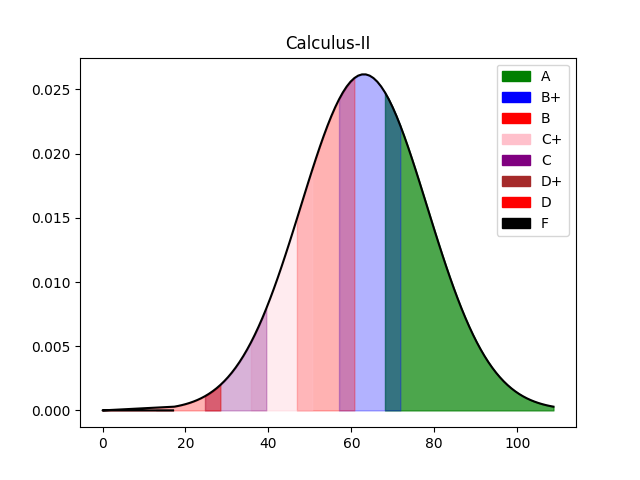
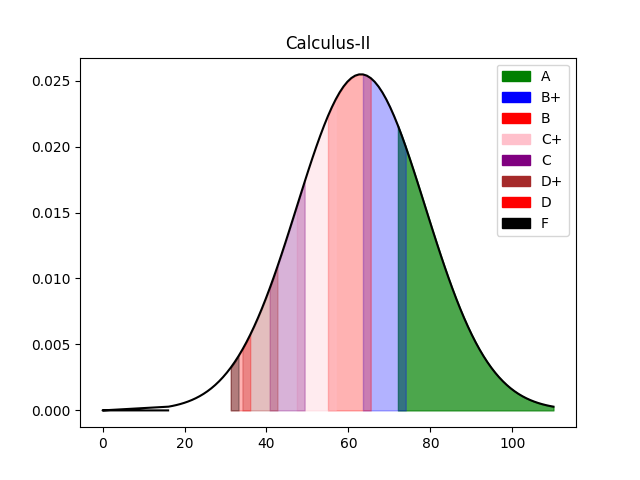
fully updated

diff --git a/GradeApp/templates/result.html b/GradeApp/templates/result.html
@@ -20,37 +20,43 @@ In case your Qalam Score has been updated, keep us notified by <a href="./forget
             <th style="width: 400px">Subject</th>
             <th style="width: 150px;">Aggregate</th>
             <th style="width: 150px;">Grade(Expected)</th>
+            <th style="width: 250px;">Jump Up Chance</th>
         </tr>
         <tr style="background-blend-mode: overlay;">
             <td style="text-align: left">Applied Physics</td>
             <td>{{ aggAP }}</td>
             <td>{{ grAP }}</td>
+            <td>{{ pAP }}</td>
         </tr>
             <tr>
             <td style="text-align: left">Calculus-II</td>
             <td>{{ aggCAL }}</td>
             <td>{{ grCAL }}</td>
+            <td>{{ pCAL }}</td>
         </tr>
             <tr>
             <td style="text-align: left">Digital Logic Design</td>
             <td>{{ aggDLD }}</td>
             <td>{{ grDLD }}</td>
+            <td>{{ pDLD }}</td>
         </tr>
             <tr>
             <td style="text-align: left">Object Oriented Programming</td>
             <td>{{ aggOOP }}</td>
             <td>{{ grOOP }}</td>
+            <td>{{ pOOP }}</td>
         </tr>
             <tr>
             <td style="text-align: left">Islamic Studies</td>
             <td>{{ aggISL }}</td>
             <td>{{ grISL }}</td>
-        </tr>
+            <td>{{ pISL }}</td>
         </tr>
         <tr>
             <td style="text-align: left">Introduction To Management</td>
             <td>{{ aggITM }}</td>
             <td>{{ grITM }}</td>
+            <td>{{ pITM }}</td>
         </tr>
 
         </tbody>

diff --git a/GradeApp/predictions.py b/GradeApp/predictions.py
@@ -24,31 +24,7 @@ def get_predict(input_data):
         l3_weights) + l3_bias
 
 
-def make_prediction(score, ch, data):
-    mean = data.mean()
-    SB = list(1 if score > x > mean else 0 for x in data).count(1) if score > mean else -list(
-        1 if score < x < mean else 0 for x in data).count(1)
-    SB /= len(data)
-    res = get_predict(np.array([[score, ch, mean, SB,
-                                 score ** 2, score * ch, score * mean, score * SB,
-                                 ch ** 2, ch * mean, ch * SB,
-                                 mean ** 2, mean * SB,
-                                 SB ** 2]]))[0]
-
-    grade = np.where(res == np.max(res))[0][0]
-    return grade_map[str(grade)]
-
-
-def decide_boundary(ch, label, i_name, data):
-    plt.clf()
-    plt.cla()
-    if not data.size:
-        return
-    mean = data.mean()
-    std_deviation = sqrt(data.var())
-    score = 89
-    if label == "Intro To Management":
-        score = 95
+def get_boundary(score, ch, mean, data):
     prev_grade = 0
     cur_grade = 0
     boundaries = []
@@ -61,18 +37,10 @@ def decide_boundary(ch, label, i_name, data):
             res = get_predict(np.array([[score, ch, mean, SB, score ** 2, score * ch, score * mean, score * SB,
                                          ch ** 2, ch * mean, ch * SB, mean ** 2, mean * SB, SB ** 2]]))[0]
             cur_grade = np.where(res == np.max(res))[0][0]  # gives index for grade
-            score -= 10
-        score += 8
+            score -= 1
+        score += 0.9
         cur_grade = prev_grade
-        while prev_grade < cur_grade:
-            SB = list(1 if score > x > mean else 0 for x in data).count(1) if score > mean else -list(
-                1 if score < x < mean else 0 for x in data).count(1)
-            SB /= len(data)
-            res = get_predict(np.array([[score, ch, mean, SB, score ** 2, score * ch, score * mean, score * SB,
-                                         ch ** 2, ch * mean, ch * SB, mean ** 2, mean * SB, SB ** 2]]))[0]
-            cur_grade = np.where(res == np.max(res))[0][0]  # gives index for grade
-            score -= 2
-        score += 1.5
+
         while not prev_grade < cur_grade:
             SB = list(1 if score > x > mean else 0 for x in data).count(1) if score > mean else -list(
                 1 if score < x < mean else 0 for x in data).count(1)
@@ -80,8 +48,9 @@ def decide_boundary(ch, label, i_name, data):
             res = get_predict(np.array([[score, ch, mean, SB, score ** 2, score * ch, score * mean, score * SB,
                                          ch ** 2, ch * mean, ch * SB, mean ** 2, mean * SB, SB ** 2]]))[0]
             cur_grade = np.where(res == np.max(res))[0][0]  # gives index for grade
-            score -= 0.5
-        boundaries.insert(0, score)
+            score -= 0.1
+        boundaries.insert(0, score + 0.1)
+
         prev_grade = cur_grade
         if cur_grade == 7:
             boundaries.insert(0, score)
@@ -89,6 +58,42 @@ def decide_boundary(ch, label, i_name, data):
 
     for i in range(8 - len(boundaries)):
         boundaries.insert(0, 0)
+
+    return boundaries
+
+
+def make_prediction(score, ch, data):
+    mean = data.mean()
+    SB = list(1 if score > x > mean else 0 for x in data).count(1) if score > mean else -list(
+        1 if score < x < mean else 0 for x in data).count(1)
+    SB /= len(data)
+    res = get_predict(np.array([[score, ch, mean, SB,
+                                 score ** 2, score * ch, score * mean, score * SB,
+                                 ch ** 2, ch * mean, ch * SB,
+                                 mean ** 2, mean * SB,
+                                 SB ** 2]]))[0]
+
+    grade = np.where(res == np.max(res))[0][0]
+
+    # Special Chk for Management Tentative
+    start = 95 if mean > 90 else 89
+
+    boundaries = get_boundary(start, ch, mean, data)
+    return (grade_map[str(grade)],
+            (str(round(1 - stats.norm.cdf((boundaries[8 - grade] - score) / sqrt(data.var())),
+                       4) * 100) if grade else "0") + "%")
+
+
+def decide_boundary(ch, label, i_name, data):
+    plt.clf()
+    plt.cla()
+    if not data.size:
+        return
+    mean = data.mean()
+    std_deviation = sqrt(data.var())
+    score = 95 if label == "Intro To Management" else 89
+
+    boundaries = get_boundary(score, ch, mean, data)
     # Plot the new curve and save it
     x = np.linspace(mean - 3 * std_deviation, mean + 3 * std_deviation, 100)
     # if std_deviation:
@@ -104,9 +109,7 @@ def decide_boundary(ch, label, i_name, data):
         y.insert(-1, 0)
     x = np.array(x)
     y = np.array(y)
-    # else:
-    #     y = [0] * 400
-    #     y[int(round(mean, 0) * 4)] = 1
+
     plt.plot(x, y, label=label, color="black")
     plt.rcParams["figure.figsize"] = (10, 1)
     # filling colors Start from
@@ -119,31 +122,31 @@ def decide_boundary(ch, label, i_name, data):
         return
     plt.fill_between(x[start:], 0, y[start:], color='green', alpha=0.7)
 
-    end = start + 5
+    end = start + 3
     start = np.where(x > boundaries[-2])[0][0]
     plt.fill_between(x[start:end], 0, y[start:end], color='blue', alpha=0.3)
 
-    end = start + 5
+    end = start + 3
     start = np.where(x > boundaries[-3])[0][0]
     plt.fill_between(x[start:end], 0, y[start:end], color='red', alpha=0.3)
 
-    end = start + 5
+    end = start + 3
     start = np.where(x > boundaries[-4])[0][0]
     plt.fill_between(x[start:end], 0, y[start:end], color='pink', alpha=0.3)
 
-    end = start + 5
+    end = start + 3
     start = np.where(x > boundaries[-5])[0][0]
     plt.fill_between(x[start:end], 0, y[start:end], color='purple', alpha=0.3)
 
-    end = start + 5
+    end = start + 3
     start = np.where(x > boundaries[-6])[0][0]
     plt.fill_between(x[start:end], 0, y[start:end], color='brown', alpha=0.3)
 
-    end = start + 5
+    end = start + 3
     start = np.where(x > boundaries[-7])[0][0]
     plt.fill_between(x[start:end], 0, y[start:end], color='red', alpha=0.3)
 
-    end = start + 5
+    end = start + 3
     start = np.where(x > boundaries[-8])[0][0]
     plt.fill_between(x[start:end], 0, y[start:end], color='black', alpha=0.3)
 
@@ -161,3 +164,8 @@ def decide_boundary(ch, label, i_name, data):
     if os.path.exists("./static/GradeApp/img/" + i_name):
         os.remove("./static/GradeApp/img/" + i_name)
     plt.savefig("./static/GradeApp/img/" + i_name)
+
+# from GradeApp import models
+# d = np.array([*models.GradesA.objects.values_list("oop"),
+#                                  *models.GradesB.objects.values_list("oop")])
+# decide_boundary(4, "test", "tt.png", d)

diff --git a/GradeApp/views.py b/GradeApp/views.py
@@ -174,7 +174,6 @@ def add_new_record(input_data):
     predictions.decide_boundary(4, "OOP", "C/oop.png", np.array([
         *models.GradesC.objects.values_list('oop')
     ]))
-
     return True
 
 
@@ -217,7 +216,7 @@ def process_form(request):
             ch = 2
         else:
             ch = 3
-        context[k] = predictions.make_prediction(aggregates[k.replace('gr', 'agg')], ch, data)
+        context[k], context[k.replace('gr', 'p')] = predictions.make_prediction(aggregates[k.replace('gr', 'agg')], ch, data)
     return render(request, "result.html", context)
 
 

diff --git a/GradeApp/models.py b/GradeApp/models.py
@@ -1,6 +1,5 @@
 from django.db import models
 
-
 # Create your models here.
 class GradesA(models.Model):
     uname = models.CharField(max_length=30)
